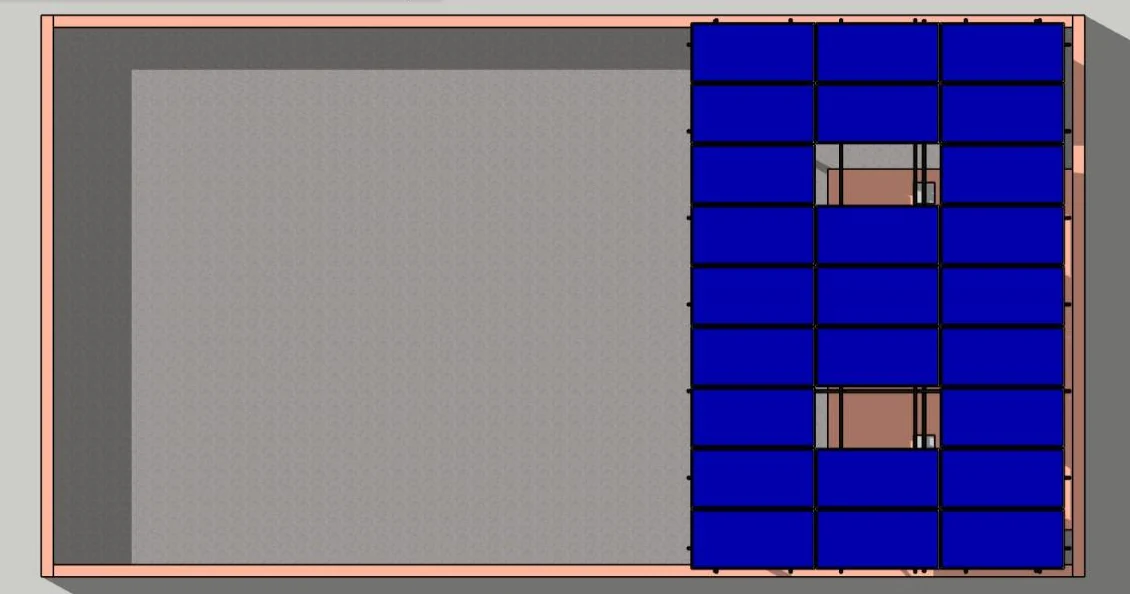
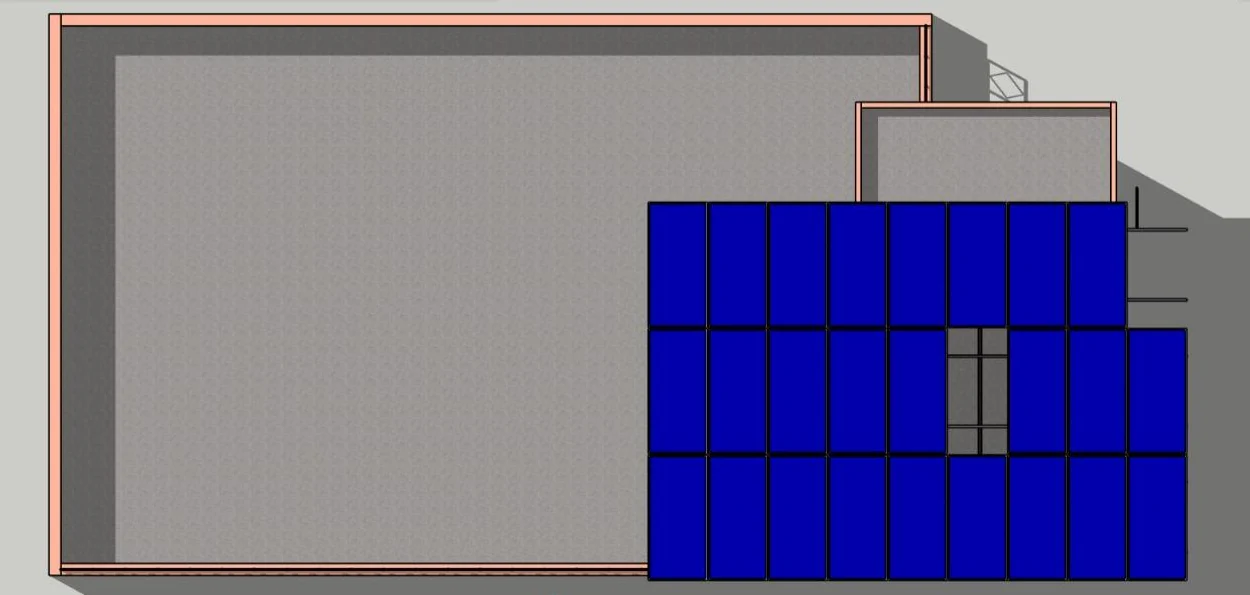
Elevated canopy: model rebuilt from the site photos (no tank, longer stair room, 3 columns with struts, landscape panels, railings), views from the photo camera spots

diff --git a/src/lib/demo.ts b/src/lib/demo.ts
@@ -116,17 +116,17 @@ export const features: Feature[] = [
       title: "Elevated rooftop canopy over a stair room",
       intro: [
         "A 15.375 kWp on-grid system on the roof of a 10 marla house: 25 Canadian Solar 615 W N-type bifacial panels on a Fox 15 kW on-grid inverter, carried on a raised mild steel shed over the rooftop stair room and the open roof in front of it.",
-        "The shed is built from 2.5 x 5 in I-beam columns and girders with U-channel rafters and purlins, anchored to concrete bases on block pads. The front columns are about 11 ft tall, the legs on the stair room slab about 4 ft 8 in, and knee braces tie the front columns to the girder.",
-        "The SketchUp model follows my original design, the bill of materials and the photos of the built frame: three rows of nine panels with two left out over the stair room, on a frame tilted about 10 degrees.",
+        "The shed is built from 2.5 x 5 in I-beam columns and girders with U-channel rails up the slope, anchored to concrete bases on block pads. Three columns stand on the open roof in front of the stair room, each braced back to its own base, and short legs stand on the stair room slab.",
+        "The SketchUp model follows my original design, the bill of materials and the photos of the built frame: three lines of landscape panels running up the slope over the stair room, on a frame tilted about 10 degrees.",
       ],
       pairs: [
         { design: { src: "/projects/elevated-canopy/model-front-left.webp", caption: "SketchUp model" }, built: { src: "/projects/elevated-canopy/site-finished-front.webp", caption: "Built on site" } },
         { design: { src: "/projects/elevated-canopy/model-front-right.webp", caption: "SketchUp model" }, built: { src: "/projects/elevated-canopy/site-finished-right.webp", caption: "Built on site" } },
       ],
       model: [
-        { src: "/projects/elevated-canopy/model-overview.webp", caption: "The whole roof: stair room, water tank, frame and array" },
+        { src: "/projects/elevated-canopy/model-overview.webp", caption: "The whole roof: stair room, frame and array" },
         { src: "/projects/elevated-canopy/model-side.webp", caption: "Side view: low edge at the front, high edge over the stair room" },
-        { src: "/projects/elevated-canopy/model-plan.webp", caption: "Plan, front of the roof on the left: three rows of nine panels with two openings" },
+        { src: "/projects/elevated-canopy/model-plan.webp", caption: "Plan, front of the roof on the left: three lines of panels running up the slope" },
       ],
       site: [
         { src: "/projects/elevated-canopy/site-frame-during-build.webp", caption: "The frame going up, before the modules" },
